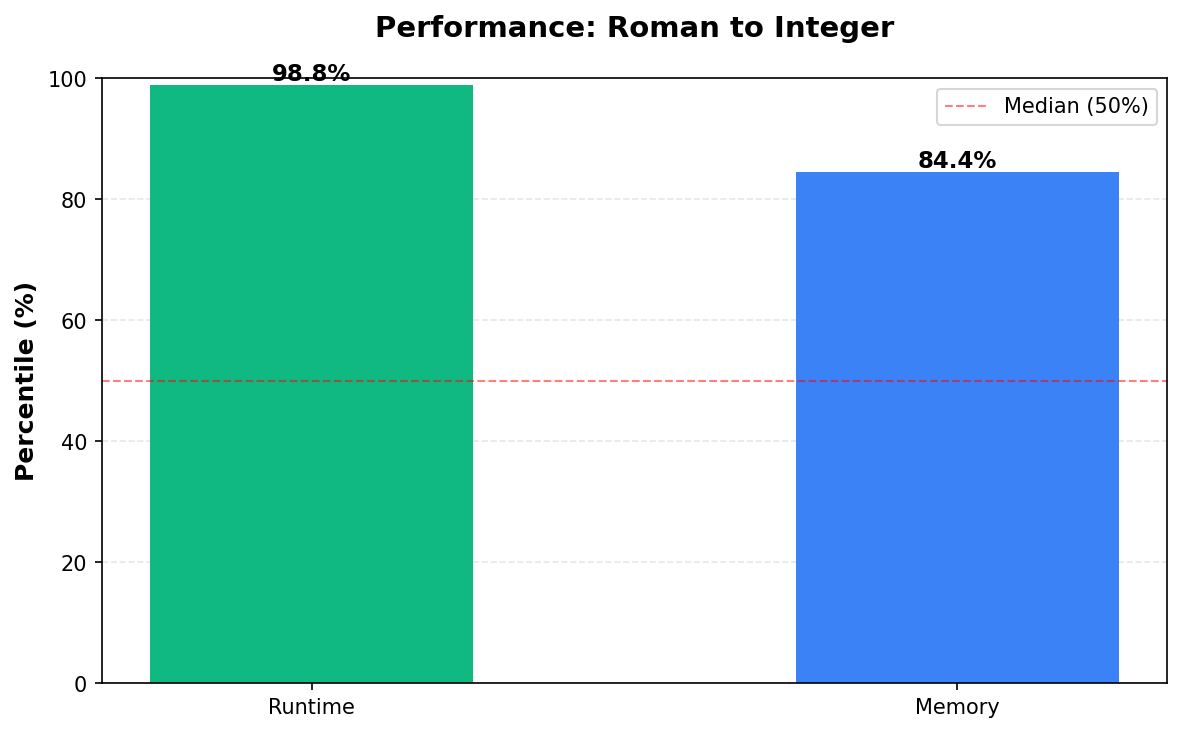
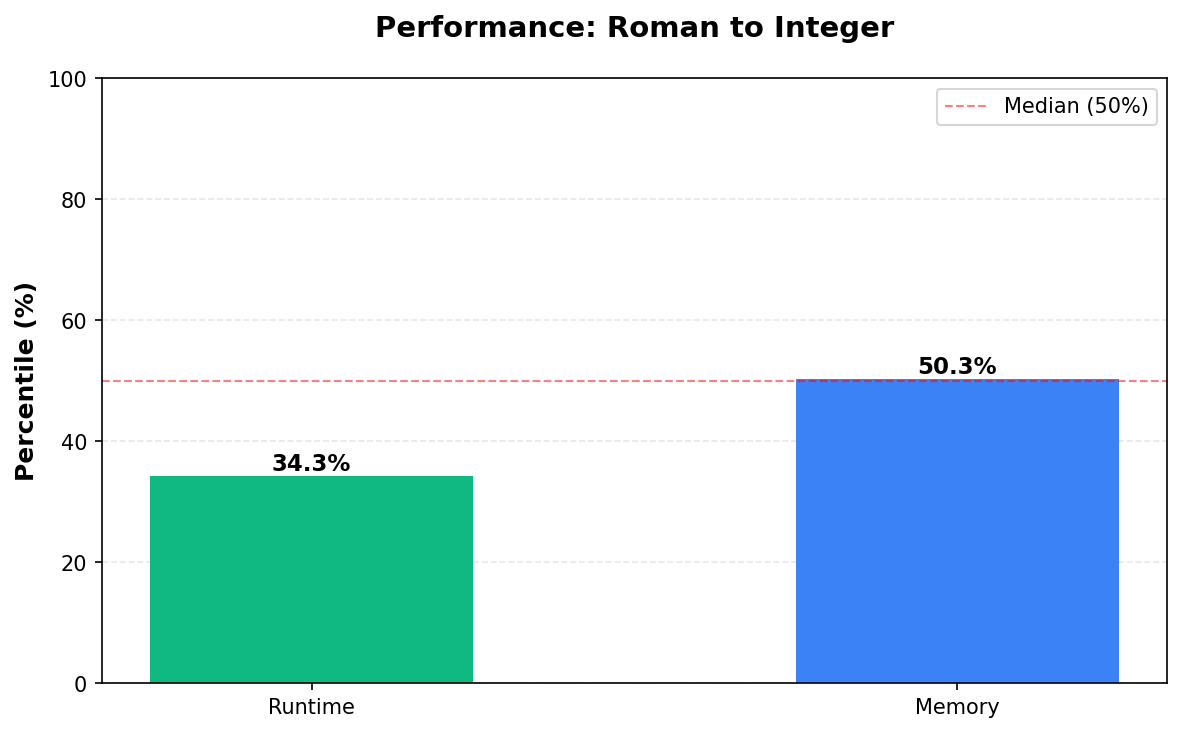
Sync LeetCode solutions - 2026-01-23

Changed region(s): [[0.1218, 0.09, 0.4264, 0.6603], [0.6701, 0.2101, 0.9442, 0.5402]]

diff --git a/leetcode/13-roman-to-integer/solution.cpp b/leetcode/13-roman-to-integer/solution.cpp
@@ -1,0 +1,33 @@
+#include <string>
+#include <unordered_map>
+
+class Solution {
+ public:
+  int romanToInt(std::string s) {
+    // Map Roman numeral characters to their integer values
+    std::unordered_map<char, int> romanMap = {
+      {'I', 1},
+      {'V', 5},
+      {'X', 10},
+      {'L', 50},
+      {'C', 100},
+      {'D', 500},
+      {'M', 1000}};
+
+    int total = 0;
+    // Iterate through the string up to the second to last character
+    for (int i = 0; i < s.length() - 1; ++i) {
+      // If the current character's value is less than the next one, subtract it
+      if (romanMap[s[i]] < romanMap[s[i + 1]]) {
+        total -= romanMap[s[i]];
+      } else {
+        // Otherwise, add it to the total
+        total += romanMap[s[i]];
+      }
+    }
+    // Add the value of the last character
+    total += romanMap[s.back()];
+
+    return total;
+  }
+};

diff --git a/leetcode/14-longest-common-prefix/solution.cpp b/leetcode/14-longest-common-prefix/solution.cpp
@@ -1,0 +1,30 @@
+#include <string>
+#include <vector>
+
+using namespace std;
+
+class Solution {
+ public:
+  string longestCommonPrefix(vector<string>& strs) {
+    if (strs.empty())
+      return "";
+
+    // Find minimum length
+    int minLen = strs[0].length();
+    for (const string& s : strs) {
+      minLen = min(minLen, (int)s.length());
+    }
+
+    // Character by character comparison
+    for (int i = 0; i < minLen; i++) {
+      char c = strs[0][i];
+      for (int j = 1; j < strs.size(); j++) {
+        if (strs[j][i] != c) {
+          return strs[0].substr(0, i);
+        }
+      }
+    }
+
+    return strs[0].substr(0, minLen);
+  }
+};

diff --git a/leetcode/3330-find-the-original-typed-string-i/solution.cpp b/leetcode/3330-find-the-original-typed-string-i/solution.cpp
@@ -1,0 +1,17 @@
+#include <string>
+using namespace std;
+
+class Solution {
+ public:
+  int possibleStringCount(string word) {
+    int count = 1;
+
+    for (int i = 1; i < word.length(); i++) {
+      if (word[i] == word[i - 1]) {
+        count++;
+      }
+    }
+
+    return count;
+  }
+};

diff --git a/leetcode/README.md b/leetcode/README.md
@@ -19,10 +19,10 @@ My personal collection of LeetCode problem solutions, documenting my journey in 
 | # | Title | Difficulty | Solution |
 |---|-------|------------|----------|
 | 1 | [Two Sum](./1-two-sum) | 🟢 Easy | `cpp` `javascript` `python3` |
-| 13 | [Roman to Integer](./13-roman-to-integer) | 🟢 Easy | `javascript` |
-| 14 | [Longest Common Prefix](./14-longest-common-prefix) | 🟢 Easy | `javascript` |
+| 13 | [Roman to Integer](./13-roman-to-integer) | 🟢 Easy | `cpp` `javascript` |
+| 14 | [Longest Common Prefix](./14-longest-common-prefix) | 🟢 Easy | `cpp` `javascript` |
 | 231 | [Power of Two](./231-power-of-two) | 🟢 Easy | `javascript` |
-| 3330 | [Find the Original Typed String I](./3330-find-the-original-typed-string-i) | 🟢 Easy | `javascript` |
+| 3330 | [Find the Original Typed String I](./3330-find-the-original-typed-string-i) | 🟢 Easy | `cpp` `javascript` |
 ## 🔗 My Profile
 
 **LeetCode:** [My Profile](https://leetcode.com/u/gourangadassamrat/)

diff --git a/leetcode/13-roman-to-integer/README.md b/leetcode/13-roman-to-integer/README.md
@@ -14,5 +14,6 @@
 
 | Language | Runtime Percentile | Memory Percentile |
 |----------|-------------------|------------------|
+| Cpp | 34.32% | 50.33% |
 | Javascript | 98.79% | 84.43% |
 

diff --git a/leetcode/14-longest-common-prefix/README.md b/leetcode/14-longest-common-prefix/README.md
@@ -14,5 +14,6 @@
 
 | Language | Runtime Percentile | Memory Percentile |
 |----------|-------------------|------------------|
+| Cpp | 100.00% | 63.20% |
 | Javascript | 32.05% | 5.57% |
 

diff --git a/leetcode/3330-find-the-original-typed-string-i/README.md b/leetcode/3330-find-the-original-typed-string-i/README.md
@@ -14,5 +14,6 @@
 
 | Language | Runtime Percentile | Memory Percentile |
 |----------|-------------------|------------------|
+| Cpp | 26.05% | 6.72% |
 | Javascript | 64.29% | 10.00% |
 
